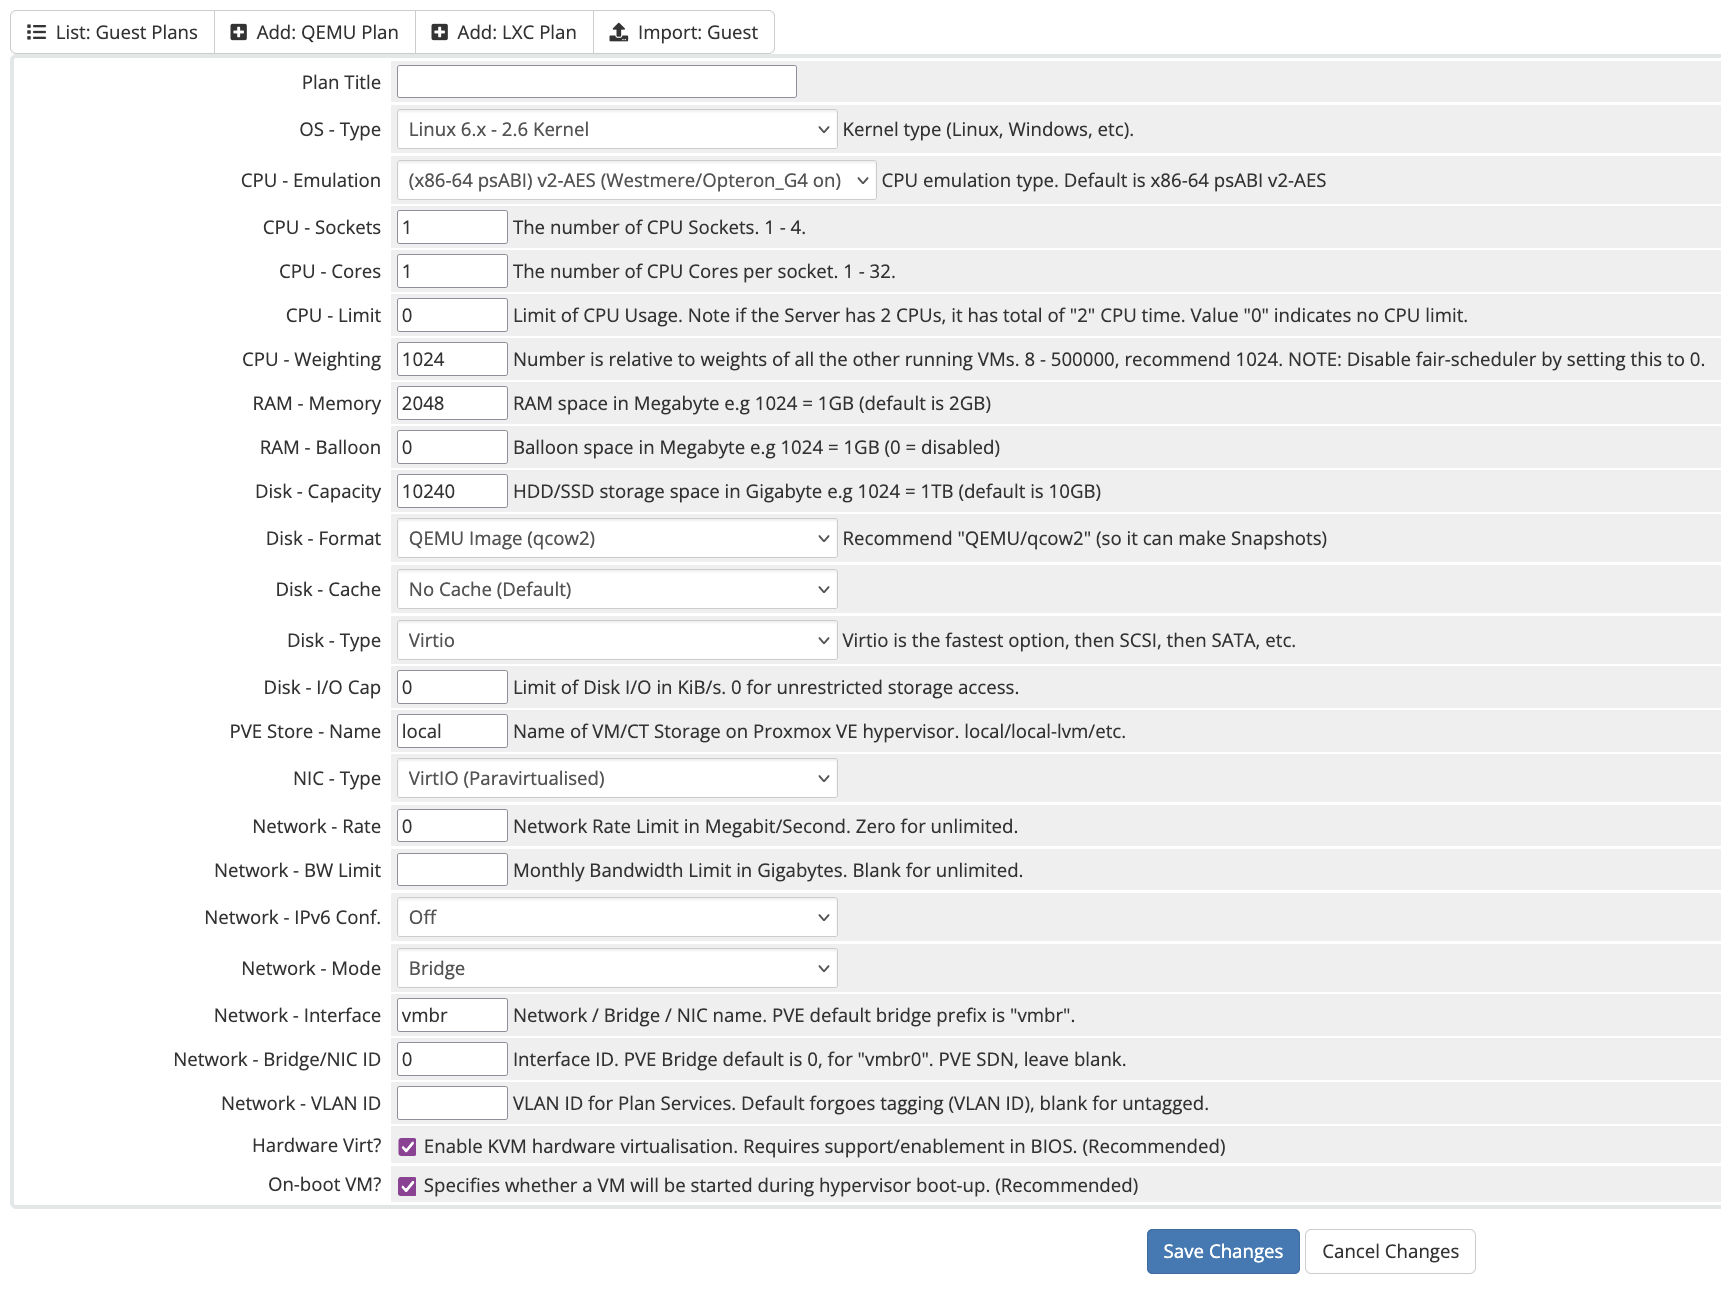
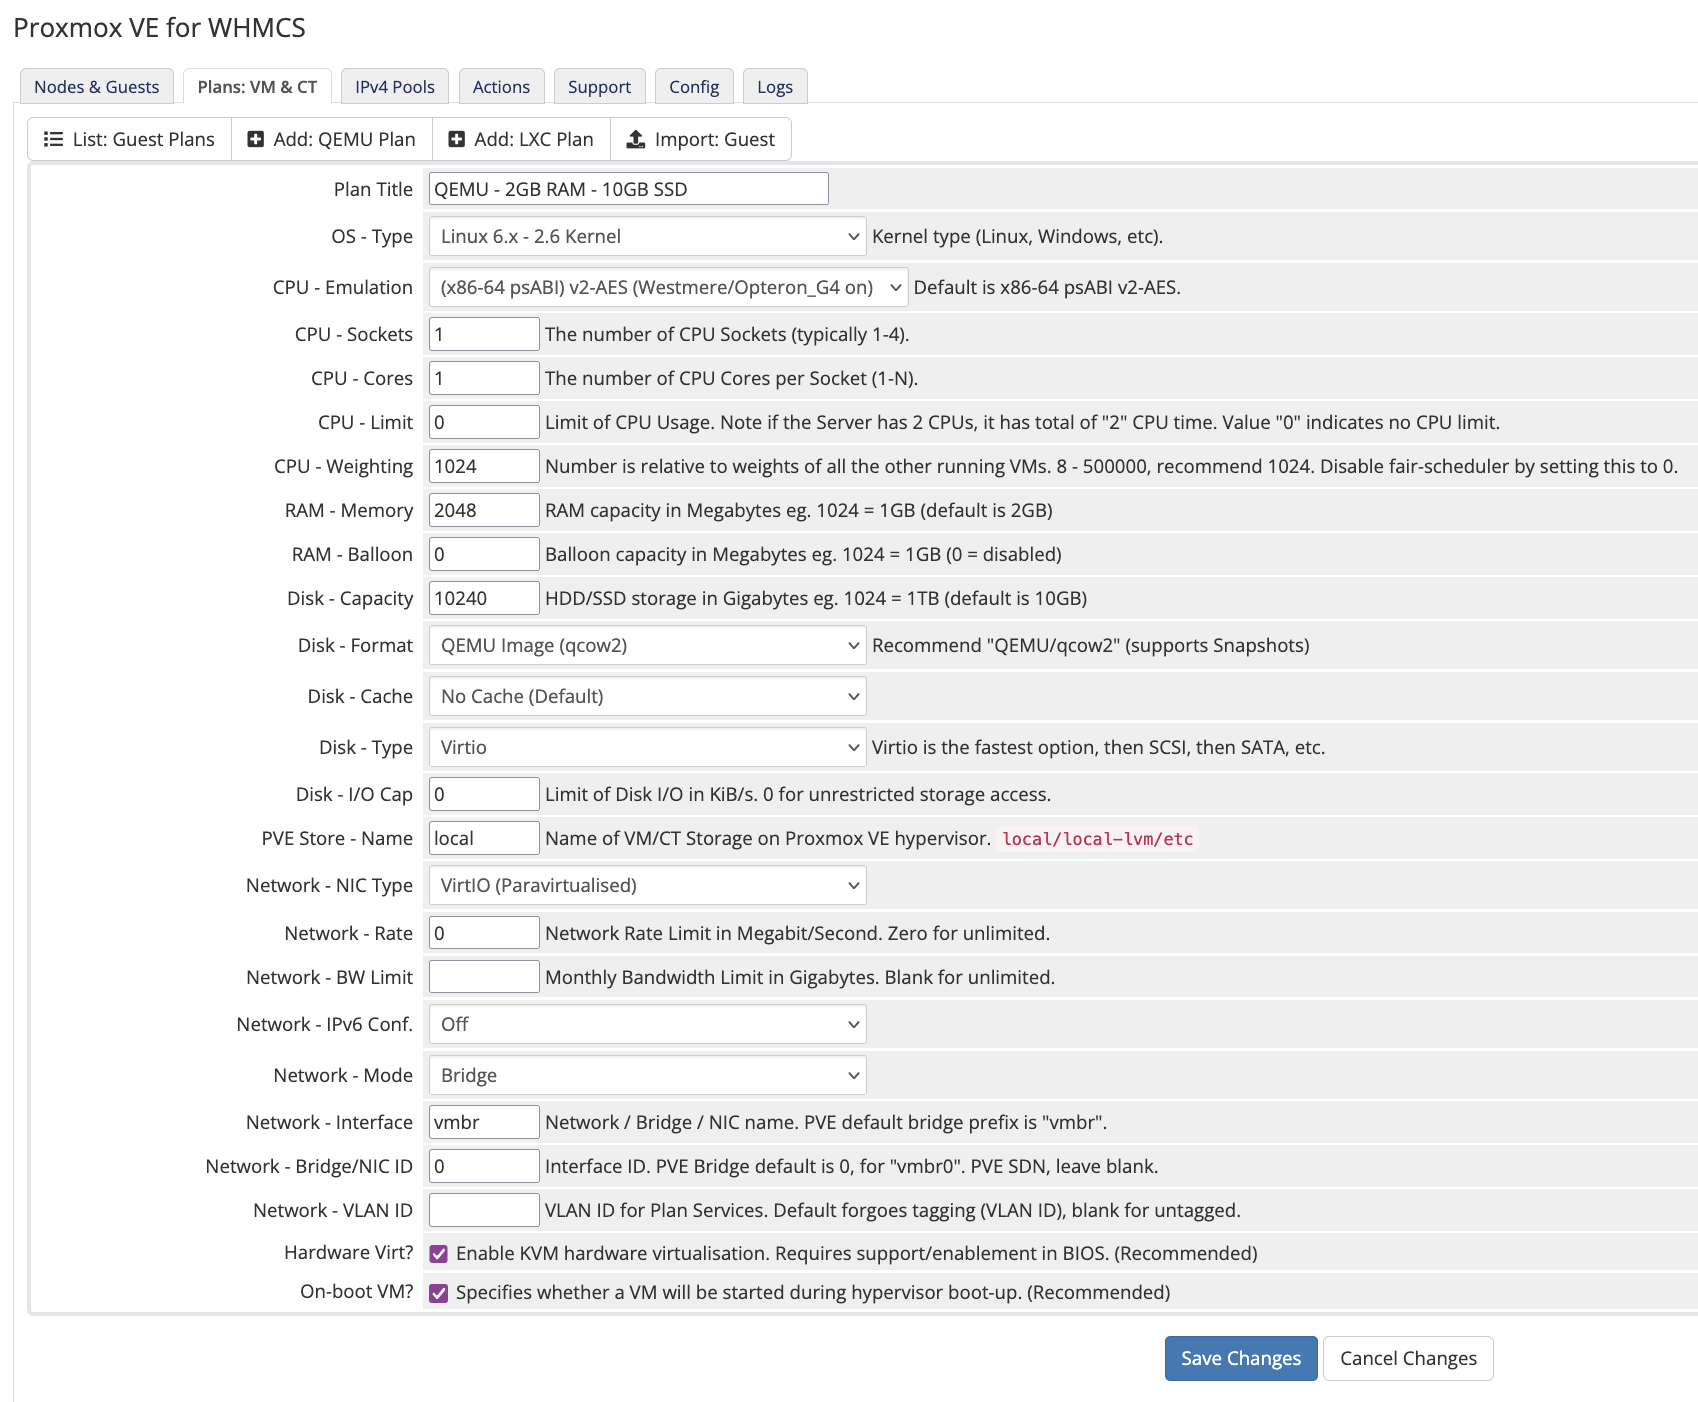
Improvements to Plan Editing

Changed region(s): [[0.0, 0.0, 0.9676, 0.9899], [0.8115, 0.2166, 0.8428, 0.2475]]

diff --git a/modules/addons/pvewhmcs/pvewhmcs.php b/modules/addons/pvewhmcs/pvewhmcs.php
@@ -544,7 +544,7 @@ function pvewhmcs_output($vars) {
 	echo ('<b>❤ PVEWHMCS is open-source and free to use & improve on!</b><br><a href="https://github.com/The-Network-Crew/Proxmox-VE-for-WHMCS/" target="_blank">https://github.com/The-Network-Crew/Proxmox-VE-for-WHMCS/</a><br><br>');
 	echo ('<b style="color:darkgreen;">Your 5-star review on WHMCS Marketplace will help the module grow!</b><br>*****: <a href="https://marketplace.whmcs.com/product/6935-proxmox-ve-for-whmcs" target="_blank">https://marketplace.whmcs.com/product/6935-proxmox-ve-for-whmcs</a><br><br>');
 	echo ('<strong><h2>Issues: Common Causes</h2></strong>1. Save your Package (Plan/Pool)! (configproducts.php?action=edit&id=...#tab=3)<br>2. Where possible, we pass-through the exact error to WHMCS Admin. Check it for info!<br><br>');
-	echo ('<strong><h2>Module Technical Support</h2></strong>Our README contains a wealth of information:<br><a href="https://github.com/The-Network-Crew/Proxmox-VE-for-WHMCS/" target="_blank">https://github.com/The-Network-Crew/Proxmox-VE-for-WHMCS/</a><br>Please only raise an <a href="https://github.com/The-Network-Crew/Proxmox-VE-for-WHMCS/issues/new" target="_blank"><u>Issue</u></a> on GitHub - inc. logs - if you\'ve properly tried.<br><br><b>Help is not guaranteed (FOSS). We will need your assistance.</b> Thank you!<br><br>');
+	echo ('<strong><h2>Module Technical Support</h2></strong>Our README contains a wealth of information:<br><a href="https://github.com/The-Network-Crew/Proxmox-VE-for-WHMCS/" target="_blank">https://github.com/The-Network-Crew/Proxmox-VE-for-WHMCS/</a><br>Please only raise an <a href="https://github.com/The-Network-Crew/Proxmox-VE-for-WHMCS/issues/new/choose" target="_blank"><u>Issue</u></a> on GitHub - inc. logs - if you\'ve properly tried.<br><br><b>Help is not guaranteed (FOSS). We will need your assistance.</b> Thank you!<br><br>');
 	echo '</div>';
 
 	// Config Tab
@@ -569,7 +569,7 @@ function pvewhmcs_output($vars) {
 	<td class="fieldlabel">Debug?</td>
 	<td class="fieldarea">
 	<label class="checkbox-inline">
-	<input type="checkbox" name="debug_mode" value="1" '. ($config->debug_mode=="1" ? "checked" : "").'> Whether or not you want Debug Logging enabled - must also enable WHMCS Module Log (WHMCS debug) & then view <u><a href="/admin/index.php?rp=/admin/logs/module-log">at this link here.</a></u>
+	<input type="checkbox" name="debug_mode" value="1" '. ($config->debug_mode=="1" ? "checked" : "").'> Whether or not you want Debug Logging enabled - must also enable WHMCS Module Log (WHMCS Debug) & then view <u><a href="/admin/index.php?rp=/admin/logs/module-log">at this link here.</a></u>
 	</label>
 	</td>
 	</tr>
@@ -964,7 +964,7 @@ function kvm_plan_add() {
 	<option value="Opteron_G4">(AMD) Opteron_G4</option>
 	<option value="Opteron_G5">(AMD) Opteron_G5</option>
 	</select>
-	Emulation type. Default is x86-64 psABI v2-AES.
+	Default is x86-64 psABI v2-AES.
 	</td>
 	</tr>
 
@@ -993,28 +993,28 @@ function kvm_plan_add() {
 	<td class="fieldlabel">CPU - Weighting</td>
 	<td class="fieldarea">
 	<input type="text" size="8" name="cpuunits" id="cpuunits" value="1024" required>
-	Number is relative to weights of all the other running VMs. 8 - 500000, recommend 1024. NOTE: Disable fair-scheduler by setting this to 0.
+	Number is relative to weights of all the other running VMs. 8 - 500000, recommend 1024. Disable fair-scheduler by setting this to 0.
 	</td>
 	</tr>
 	<tr>
 	<td class="fieldlabel">RAM - Memory</td>
 	<td class="fieldarea">
 	<input type="text" size="8" name="memory" id="memory" value="2048" required>
-	RAM space in Megabytes e.g 1024 = 1GB (default is 2GB)
+	RAM capacity in Megabytes eg. 1024 = 1GB (default is 2GB)
 	</td>
 	</tr>
 	<tr>
 	<td class="fieldlabel">RAM - Balloon</td>
 	<td class="fieldarea">
 	<input type="text" size="8" name="balloon" id="balloon" value="0" required>
-	Balloon space in Megabytes e.g 1024 = 1GB (0 = disabled)
+	Balloon capacity in Megabytes eg. 1024 = 1GB (0 = disabled)
 	</td>
 	</tr>
 	<tr>
 	<td class="fieldlabel">Disk - Capacity</td>
 	<td class="fieldarea">
 	<input type="text" size="8" name="disk" id="disk" value="10240" required>
-	HDD/SSD storage in Gigabytes e.g 1024 = 1TB (default is 10GB)
+	HDD/SSD storage in Gigabytes eg. 1024 = 1TB (default is 10GB)
 	</td>
 	</tr>
 	<tr>
@@ -1025,7 +1025,7 @@ function kvm_plan_add() {
 	<option selected="" value="qcow2">QEMU Image (qcow2)</option>
 	<option value="vmdk">VMware Image (vmdk)</option>
 	</select>
-	Recommend "QEMU/qcow2" (so it can take Snapshots)
+	Recommend "QEMU/qcow2" (supports Snapshots)
 	</td>
 	</tr>
 	<tr>
@@ -1064,7 +1064,7 @@ function kvm_plan_add() {
 	<td class="fieldlabel">PVE Store - Name</td>
 	<td class="fieldarea">
 	<input type="text" size="8" name="storage" id="storage" value="local" required>
-	Name of VM/CT Storage on Proxmox VE hypervisor. local/local-lvm/etc.
+	Name of VM/CT Storage on Proxmox VE hypervisor. <code>local/local-lvm/etc</code>
 	</td>
 	</tr>
 	<tr>
@@ -1280,7 +1280,7 @@ function kvm_plan_edit($id) {
 	<option value="Opteron_G4" ' . ($plan->cpuemu == "Opteron_G4" ? "selected" : "") . '>(AMD) Opteron_G4</option>
 	<option value="Opteron_G5" ' . ($plan->cpuemu == "Opteron_G5" ? "selected" : "") . '>(AMD) Opteron_G5</option>
 	</select>
-	Emulation type. Default is x86-64 psABI v2-AES.
+	Default is x86-64 psABI v2-AES.
 	</td>
 	</tr>
 
@@ -1309,28 +1309,28 @@ function kvm_plan_edit($id) {
 	<td class="fieldlabel">CPU - Weighting</td>
 	<td class="fieldarea">
 	<input type="text" size="8" name="cpuunits" id="cpuunits" value="'.$plan->cpuunits.'" required>
-	Number is relative to weights of all the other running VMs. 8 - 500000 recommended 1024. NOTE: You can disable fair-scheduler by setting this to 0.
+	Number is relative to weights of all the other running VMs. 8 - 500000 recommended 1024. Disable fair-scheduler by setting this to 0.
 	</td>
 	</tr>
 	<tr>
 	<td class="fieldlabel">RAM - Memory</td>
 	<td class="fieldarea">
 	<input type="text" size="8" name="memory" id="memory" required value="'.$plan->memory.'">
-	RAM space in Megabytes e.g 1024 = 1GB
+	RAM capacity in Megabytes eg. 1024 = 1GB
 	</td>
 	</tr>
 	<tr>
 	<td class="fieldlabel">RAM - Balloon</td>
 	<td class="fieldarea">
 	<input type="text" size="8" name="balloon" id="balloon" required value="'.$plan->balloon.'">
-	Balloon space in Megabytes e.g 1024 = 1GB (0 = disabled)
+	Balloon capacity in Megabytes eg. 1024 = 1GB (0 = disabled)
 	</td>
 	</tr>
 	<tr>
 	<td class="fieldlabel">Disk - Capacity</td>
 	<td class="fieldarea">
 	<input type="text" size="8" name="disk" id="disk" required value="'.$plan->disk.'">
-	HDD/SSD storage in Gigabytes e.g 1024 = 1TB
+	HDD/SSD storage in Gigabytes eg. 1024 = 1TB
 	</td>
 	</tr>
 	<tr>
@@ -1341,7 +1341,7 @@ function kvm_plan_edit($id) {
 	<option value="qcow2" '. ($plan->diskformat=="qcow2" ? "selected" : "").'>QEMU image (qcow2)</option>
 	<option value="vmdk" '. ($plan->diskformat=="vmdk" ? "selected" : "").'>VMware image (vmdk)</option>
 	</select>
-	Recommend "QEMU/qcow2 format" (so it can take Snapshots)
+	Recommend "QEMU/qcow2 format" (supports Snapshots)
 	</td>
 	</tr>
 	<tr>
@@ -1380,7 +1380,7 @@ function kvm_plan_edit($id) {
 	<td class="fieldlabel">PVE Store - Name</td>
 	<td class="fieldarea">
 	<input type="text" size="8" name="storage" id="storage" required value="'.$plan->storage.'">
-	Name of VM/CT Storage on Proxmox VE hypervisor. local/local-lvm/etc.
+	Name of VM/CT Storage on Proxmox VE hypervisor. <code>local/local-lvm/etc</code>
 	</td>
 	</tr>
 	<tr>
@@ -1495,7 +1495,7 @@ function lxc_plan_add() {
 	<td class="fieldlabel">CPU - Limit</td>
 	<td class="fieldarea">
 	<input type="text" size="8" name="cpulimit" id="cpulimit" value="1" required>
-	Limit of CPU usage. Default is 1. Note: if the computer has 2 CPUs, it has total of "2" CPU time. Value "0" indicates no CPU limit.
+	Limit of CPU usage. Default is 1. If the computer has 2 CPUs, it has total of "2" CPU time. Value "0" indicates no CPU limit.
 	</td>
 	</tr>
 	<tr>
@@ -1509,21 +1509,21 @@ function lxc_plan_add() {
 	<td class="fieldlabel">RAM - Memory</td>
 	<td class="fieldarea">
 	<input type="text" size="8" name="memory" id="memory" required>
-	RAM space in Megabytes e.g 1024 = 1GB
+	RAM capacity in Megabytes eg. 1024 = 1GB
 	</td>
 	</tr>
 	<tr>
 	<td class="fieldlabel">Swap - Space</td>
 	<td class="fieldarea">
 	<input type="text" size="8" name="swap" id="swap">
-	Swap space in Megabytes e.g 1024 = 1GB
+	Swap capacity in Megabytes eg. 1024 = 1GB
 	</td>
 	</tr>
 	<tr>
 	<td class="fieldlabel">Disk - Capacity</td>
 	<td class="fieldarea">
 	<input type="text" size="8" name="disk" id="disk" required>
-	HDD/SSD storage space in Gigabytes e.g 1024 = 1TB
+	HDD/SSD storage in Gigabytes eg. 1024 = 1TB
 	</td>
 	</tr>
 	<tr>
@@ -1537,7 +1537,7 @@ function lxc_plan_add() {
 	<td class="fieldlabel">PVE Store - Name</td>
 	<td class="fieldarea">
 	<input type="text" size="8" name="storage" id="storage" value="local" required>
-	Name of VM/CT Storage on Proxmox VE hypervisor. local/local-lvm/etc.
+	Name of VM/CT Storage on Proxmox VE hypervisor. <code>local/local-lvm/etc</code>
 	</td>
 	</tr>
 	<tr>
@@ -1640,7 +1640,7 @@ function lxc_plan_edit($id) {
 	<td class="fieldlabel">CPU - Limit</td>
 	<td class="fieldarea">
 	<input type="text" size="8" name="cpulimit" id="cpulimit" value="'.$plan->cpulimit.'" required>
-	Limit of CPU usage. Default is 1. Note: if the computer has 2 CPUs, it has total of "2" CPU time. Value "0" indicates no CPU limit.
+	Limit of CPU usage. Default is 1. If the computer has 2 CPUs, it has total of "2" CPU time. Value "0" indicates no CPU limit.
 	</td>
 	</tr>
 	<tr>
@@ -1654,21 +1654,21 @@ function lxc_plan_edit($id) {
 	<td class="fieldlabel">RAM - Memory</td>
 	<td class="fieldarea">
 	<input type="text" size="8" name="memory" id="memory" required value="'.$plan->memory.'">
-	RAM space in Megabytes e.g 1024 = 1GB
+	RAM capacity in Megabytes eg. 1024 = 1GB
 	</td>
 	</tr>
 	<tr>
 	<td class="fieldlabel">Swap - Space</td>
 	<td class="fieldarea">
 	<input type="text" size="8" name="swap" id="swap" value="'.$plan->swap.'">
-	Swap space in Megabytes e.g 1024 = 1GB
+	Swap capacity in Megabytes eg. 1024 = 1GB
 	</td>
 	</tr>
 	<tr>
 	<td class="fieldlabel">Disk - Capacity</td>
 	<td class="fieldarea">
 	<input type="text" size="8" name="disk" id="disk" value="'.$plan->disk.'" required>
-	HDD/SSD storage space in Gigabytes e.g 1024 = 1TB
+	HDD/SSD storage in Gigabytes eg. 1024 = 1TB
 	</td>
 	</tr>
 	<tr>
@@ -1682,7 +1682,7 @@ function lxc_plan_edit($id) {
 	<td class="fieldlabel">PVE Store - Name</td>
 	<td class="fieldarea">
 	<input type="text" size="8" name="storage" id="storage" value="'.$plan->storage.'" required>
-	Name of VM/CT Storage on Proxmox VE hypervisor. local/local-lvm/etc.
+	Name of VM/CT Storage on Proxmox VE hypervisor. <code>local/local-lvm/etc</code>
 	</td>
 	</tr>
 	<tr>

diff --git a/README.md b/README.md
@@ -18,7 +18,7 @@
 - Leverage the power of QEMU & LXC with PVE's convenience
 - Import existing VM/CT Guest from Proxmox into WHMCS
 - Choose PVE VMID start & integrate to your schema
-- Supports 128GB+ RAM & 128+ CPU cores per Guest!
+- 128GB+ RAM & 128+ CPU cores per Guest!
 
 https://github.com/The-Network-Crew/Proxmox-VE-for-WHMCS/
 
